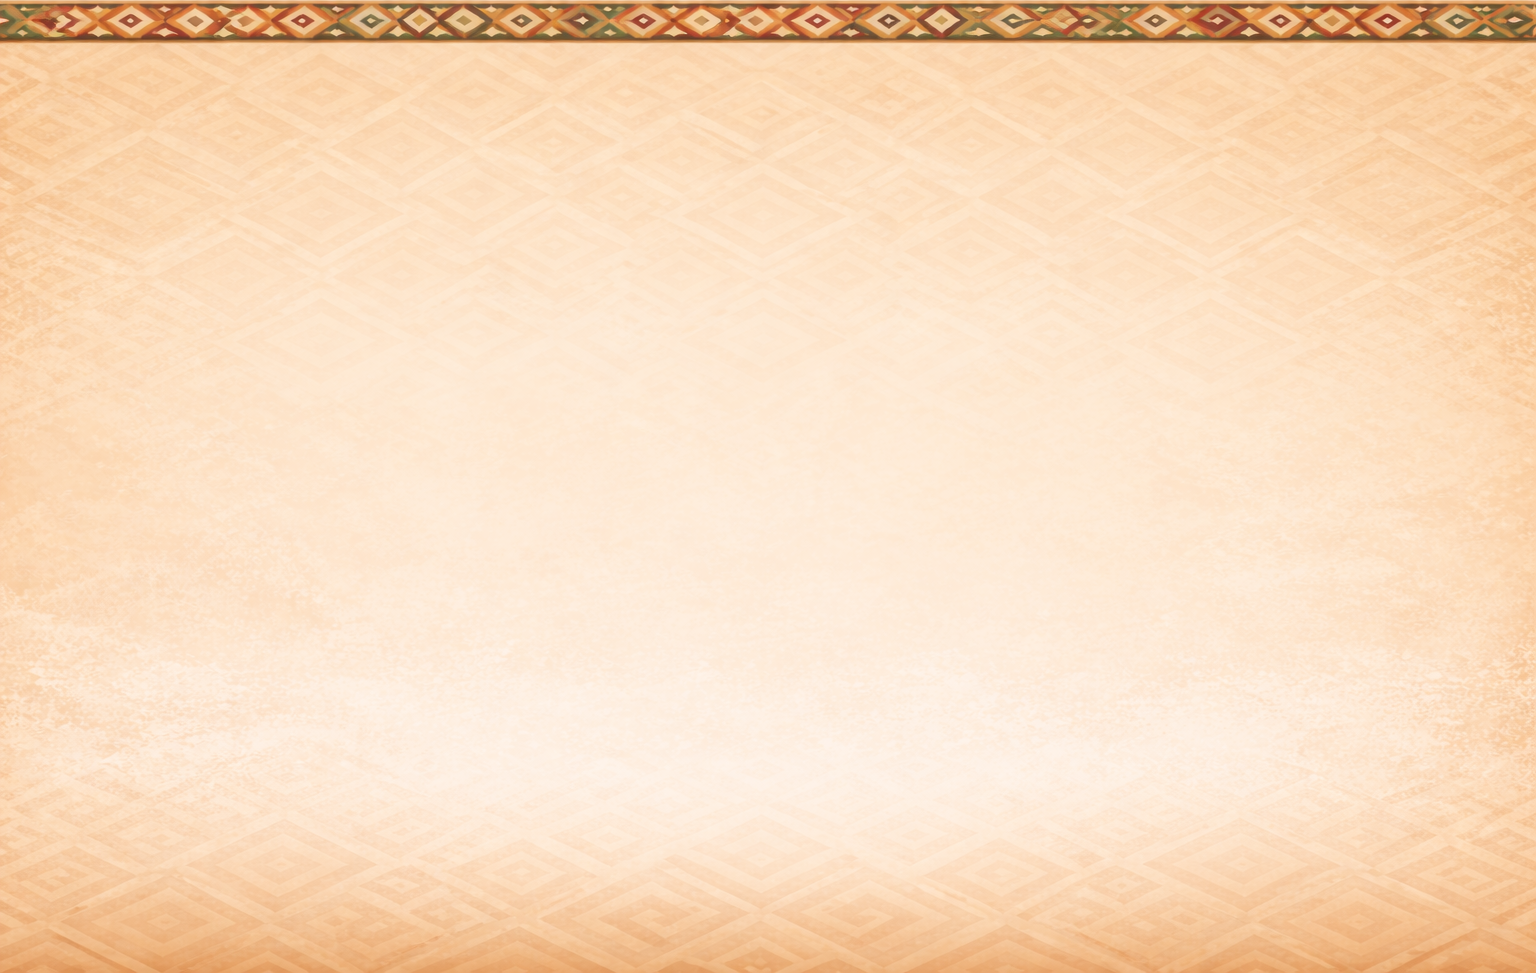
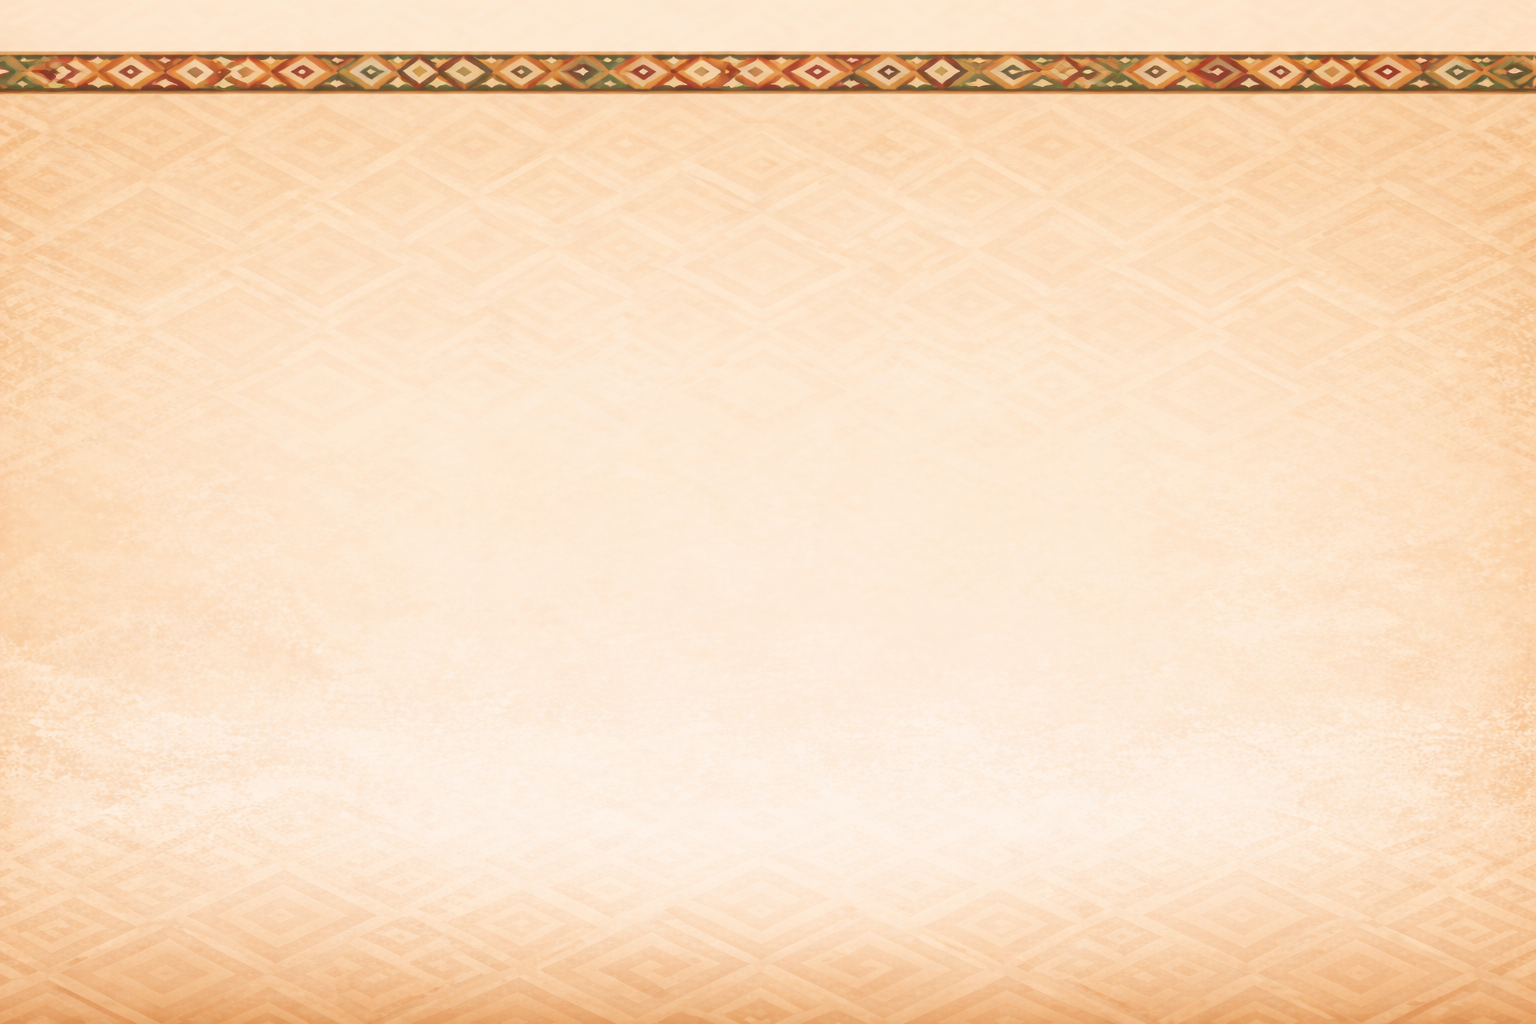
Restore full uncropped border image and increase opacity to 85%
The previous crop may have cut the border pattern. Using the full
original image without any cropping and bumping opacity from 55% to
85% so the border is clearly visible.

https://claude.ai/code/session_01Pu7yQtYgAGtcQnG92Qfznt

diff --git a/src/components/layout/AppShell.tsx b/src/components/layout/AppShell.tsx
@@ -27,7 +27,7 @@ export function AppShell({ children, className, compact = false }: AppShellProps
           backgroundSize: "cover",
           backgroundPosition: "top center",
           backgroundRepeat: "no-repeat",
-          opacity: 0.55,
+          opacity: 0.85,
           pointerEvents: "none",
         }}
       />
